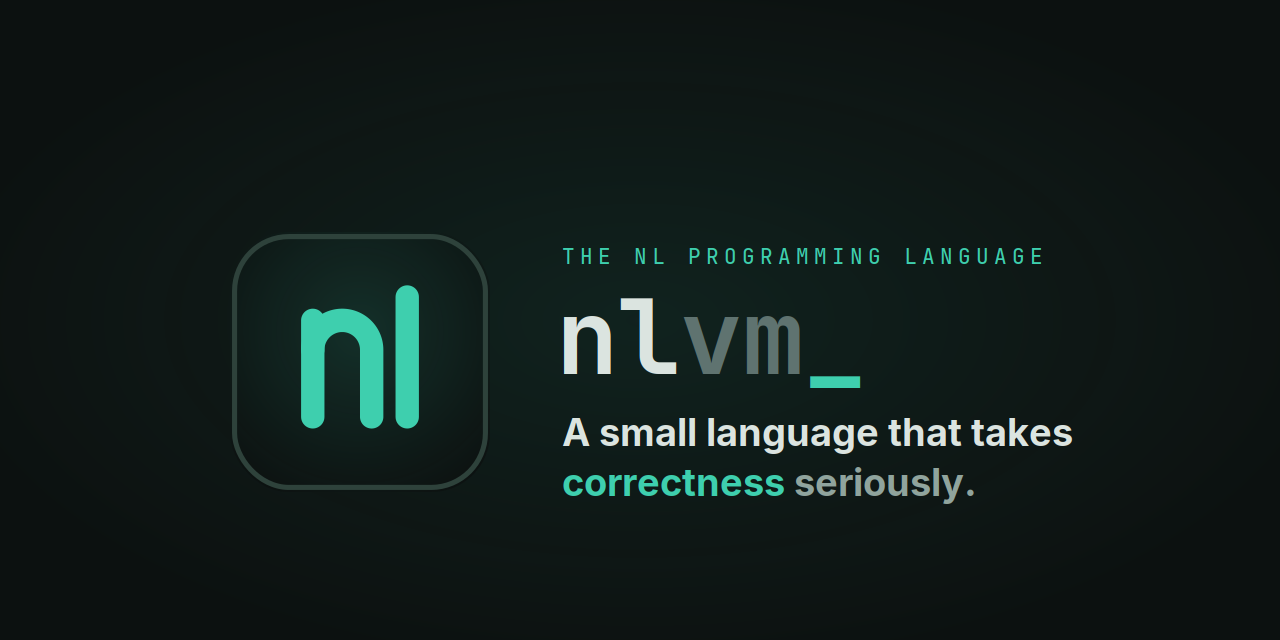
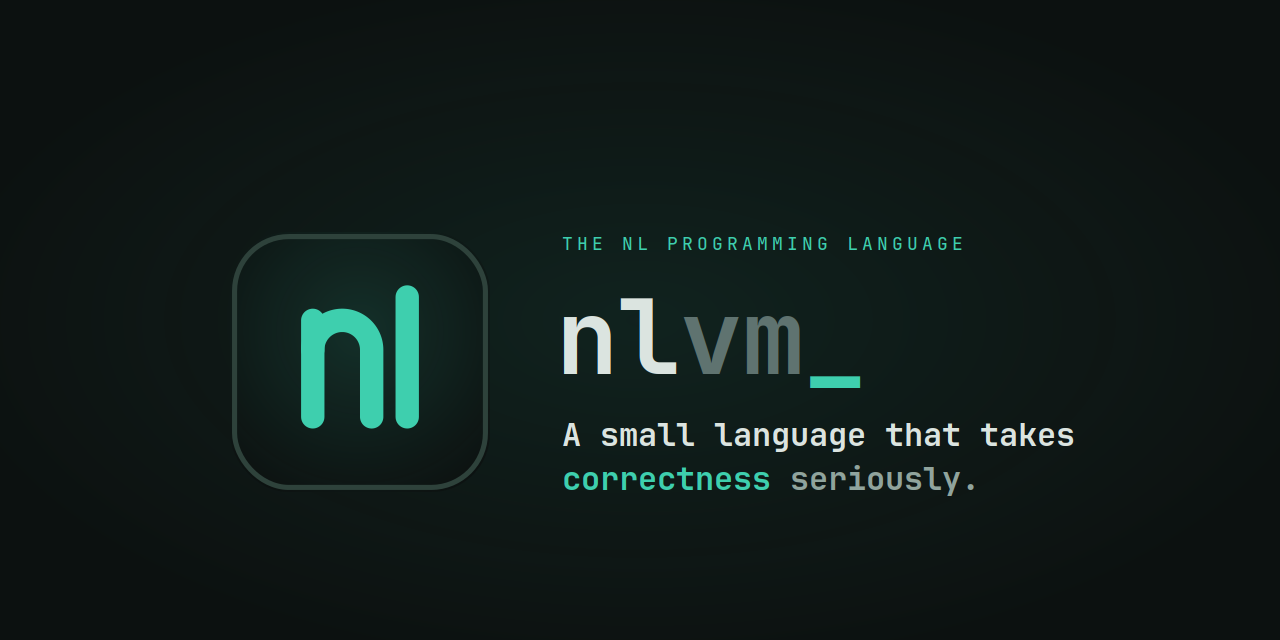
Refine social preview brand asset design
- Adjust font sizes and positions in `generate.py`
- Update `social-preview.svg` with new styles
- Update `social-preview.png`

Changed region(s): [[0.4375, 0.6562, 0.8438, 0.7812], [0.4375, 0.375, 0.8125, 0.4062]]

diff --git a/docs/assets/brand/generate.py b/docs/assets/brand/generate.py
@@ -83,14 +83,14 @@ def build_social_preview_svg() -> str:
   {logo_mark(icon_x, icon_y, icon_scale)}
 
   <g font-family="{MONO}">
-    <text x="{text_x}" y="264" font-size="21" font-weight="500" letter-spacing="5" fill="{PRIMARY}">THE NL PROGRAMMING LANGUAGE</text>
+    <text x="{text_x}" y="250" font-size="18" font-weight="500" letter-spacing="4" fill="{PRIMARY}">THE NL PROGRAMMING LANGUAGE</text>
     <text x="{text_x - 6}" y="374" font-size="104" font-weight="700">
       <tspan fill="{TEXT}">nl</tspan><tspan fill="{TEXT_FAINT}">vm</tspan><tspan fill="{PRIMARY}">_</tspan>
     </text>
   </g>
-  <g font-family="{SANS}" font-size="38" font-weight="700" fill="{TEXT}">
+  <g font-family="{MONO}" font-size="32" font-weight="700" fill="{TEXT}">
     <text x="{text_x}" y="446">A small language that takes</text>
-    <text x="{text_x}" y="496" xml:space="preserve"><tspan fill="{PRIMARY}">correctness</tspan><tspan fill="{TEXT_MUTED}"> seriously.</tspan></text>
+    <text x="{text_x}" y="490" xml:space="preserve"><tspan fill="{PRIMARY}">correctness</tspan><tspan fill="{TEXT_MUTED}"> seriously.</tspan></text>
   </g>
 </svg>
 '''